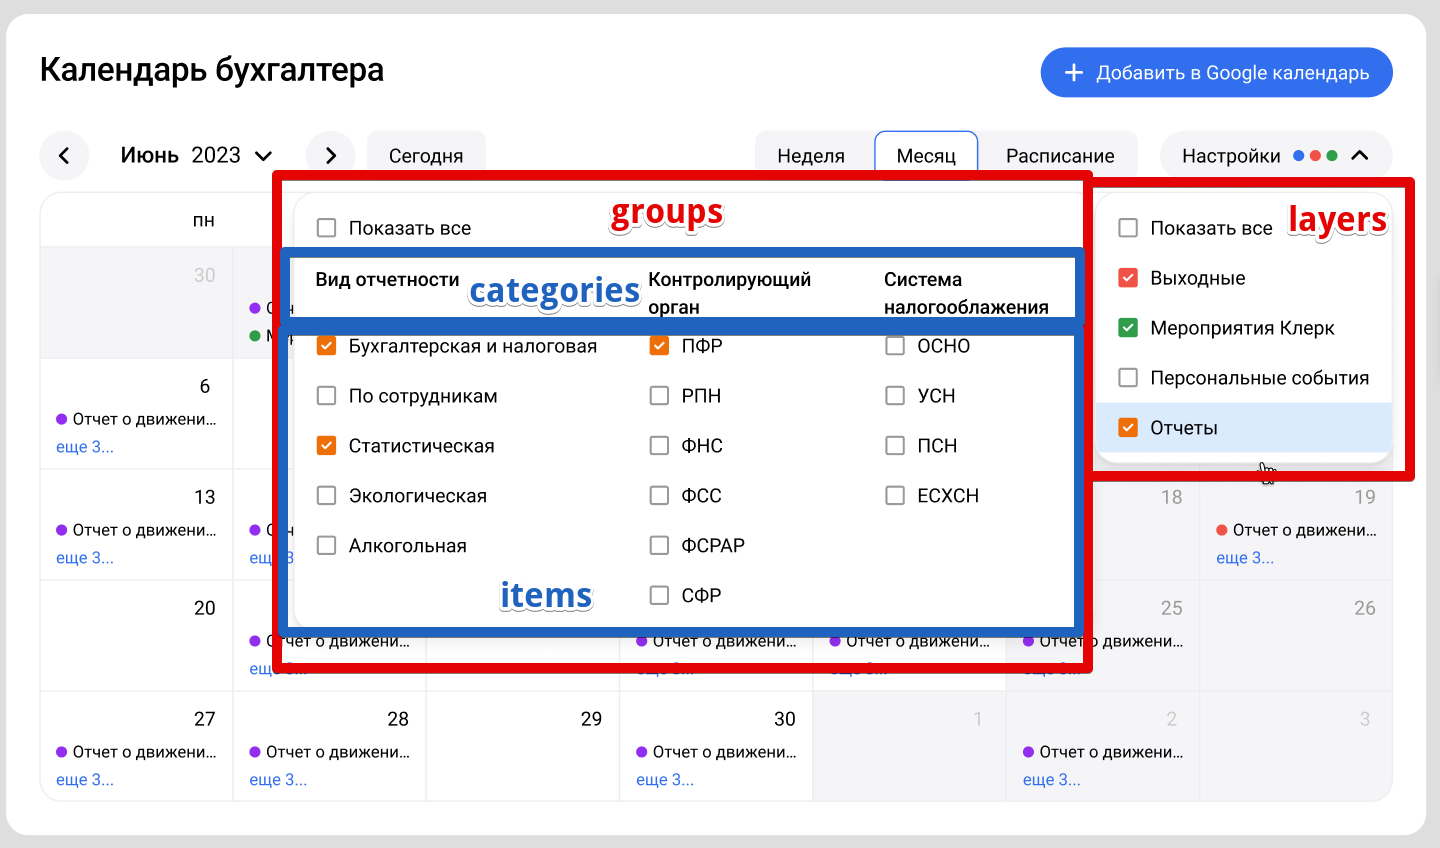
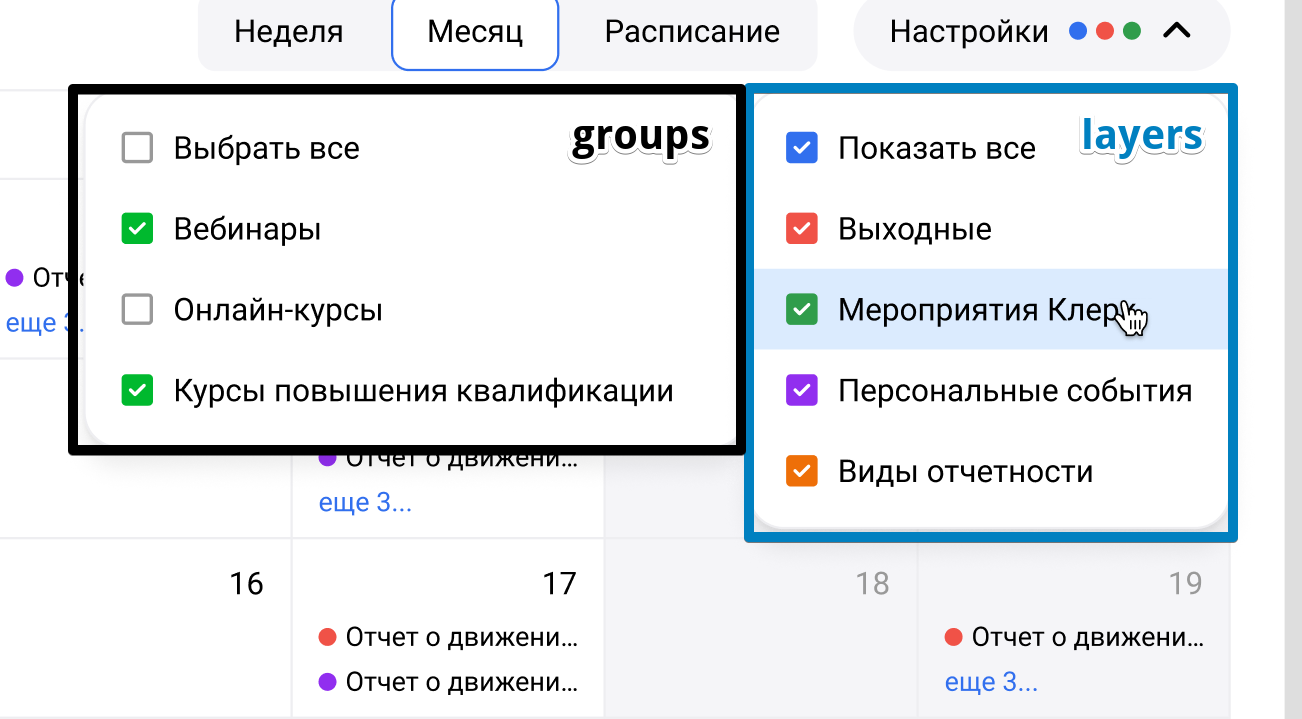
vault backup: 2024-07-08 17:58:07

diff --git a/README.md b/README.md
@@ -4,6 +4,14 @@
 
 <img src="assets/Illustration.jpg" width="600">
 
+![[layers_groups.png|600]]
+
+<img src="assets/layers_groups.png" width="600">
+
+![[layers_cats_groups.png|700]]
+
+<img src="assets/layers_cats_groups.png" width="700">
+
 ---
 #### Начальный запрос справочников
 
